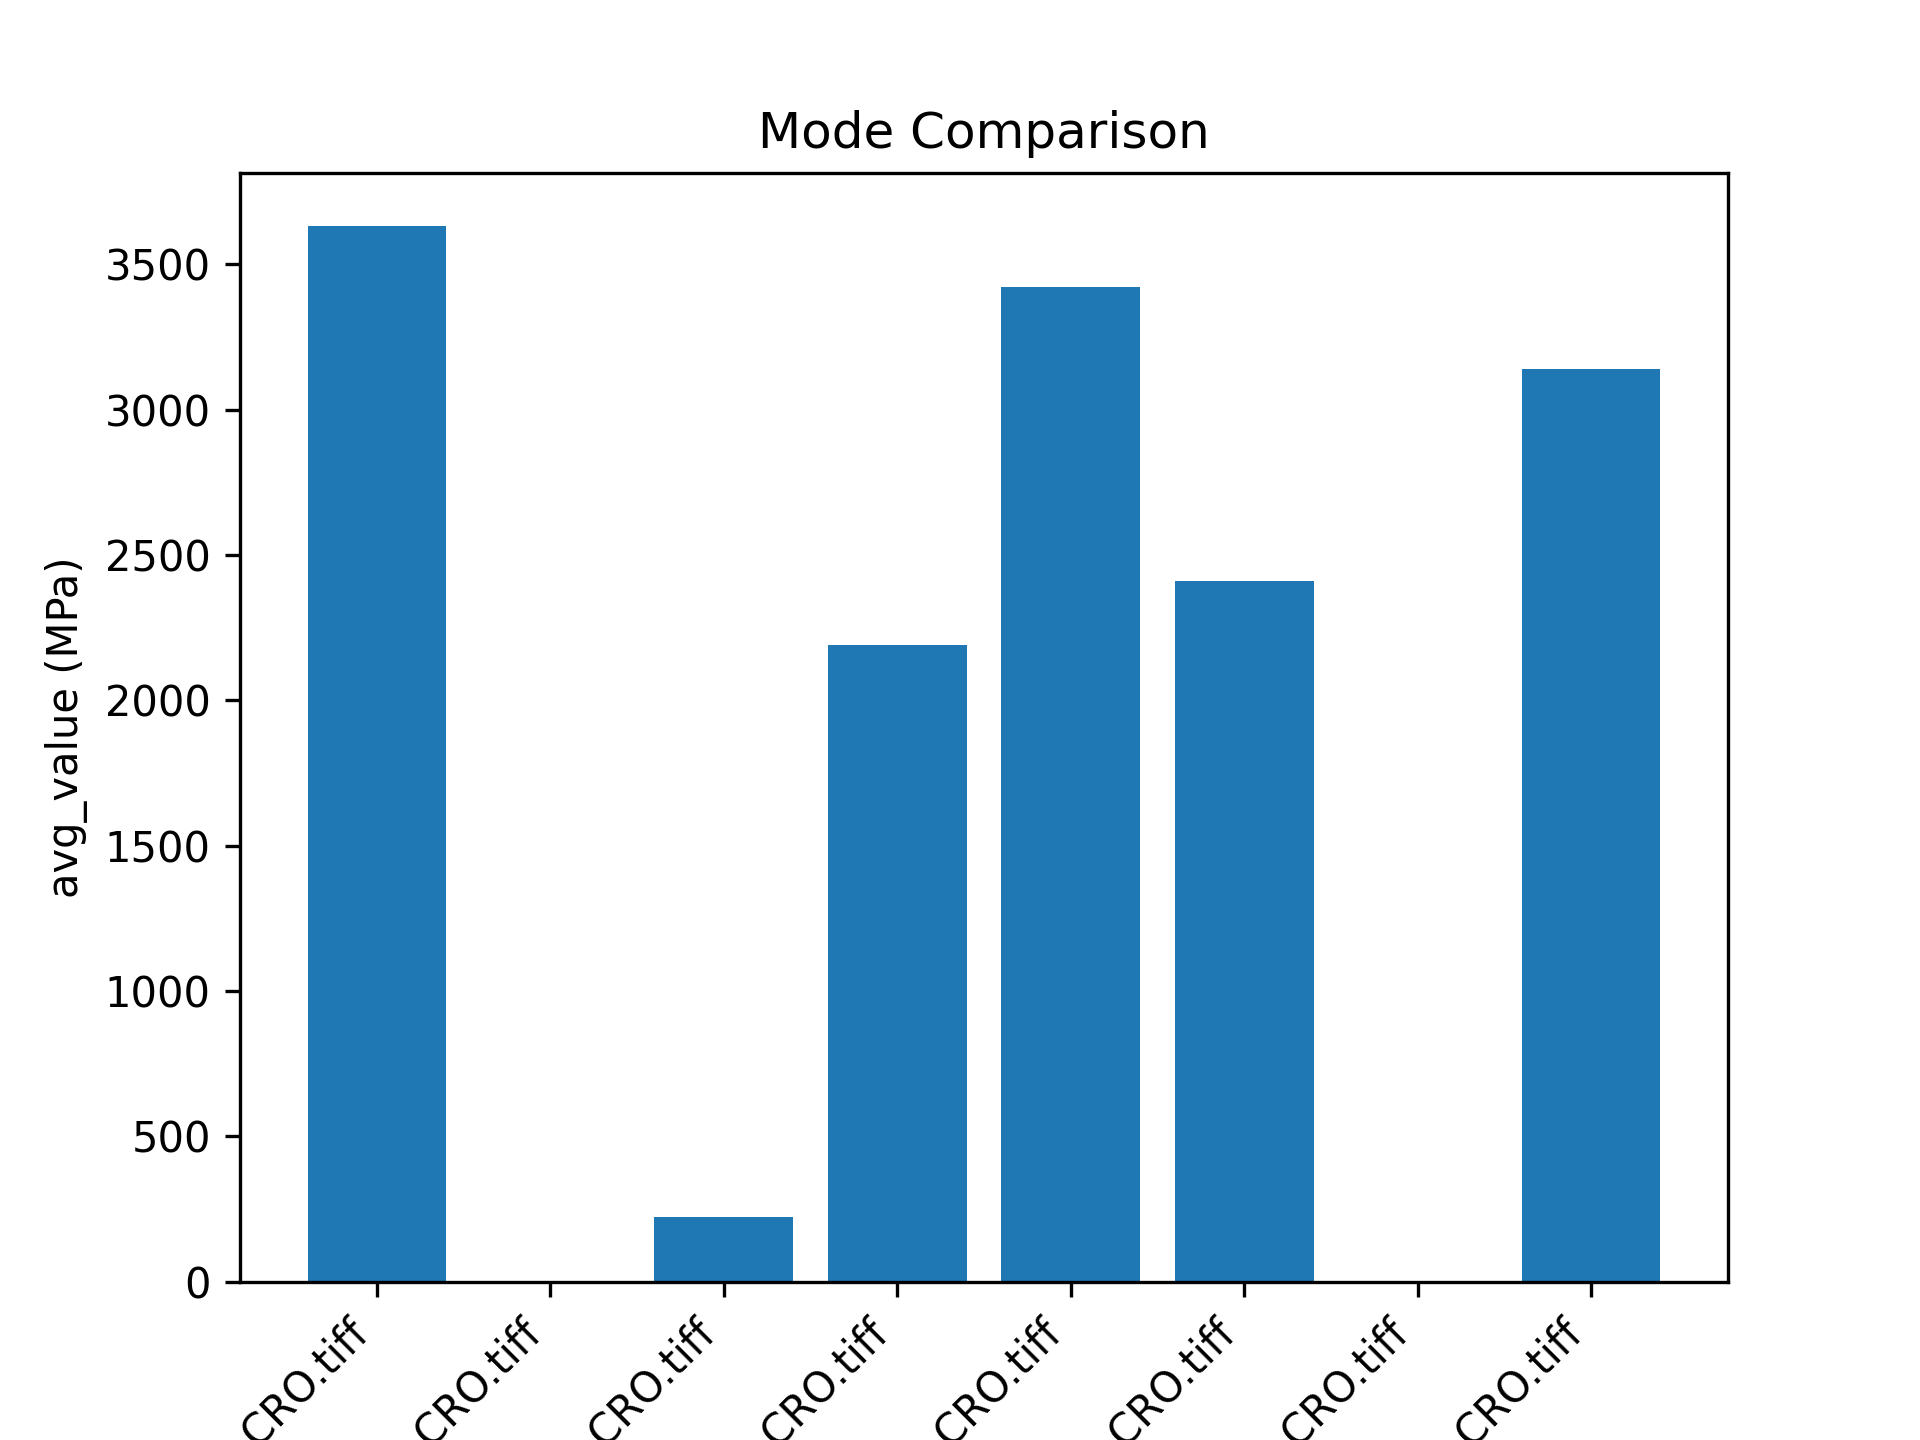
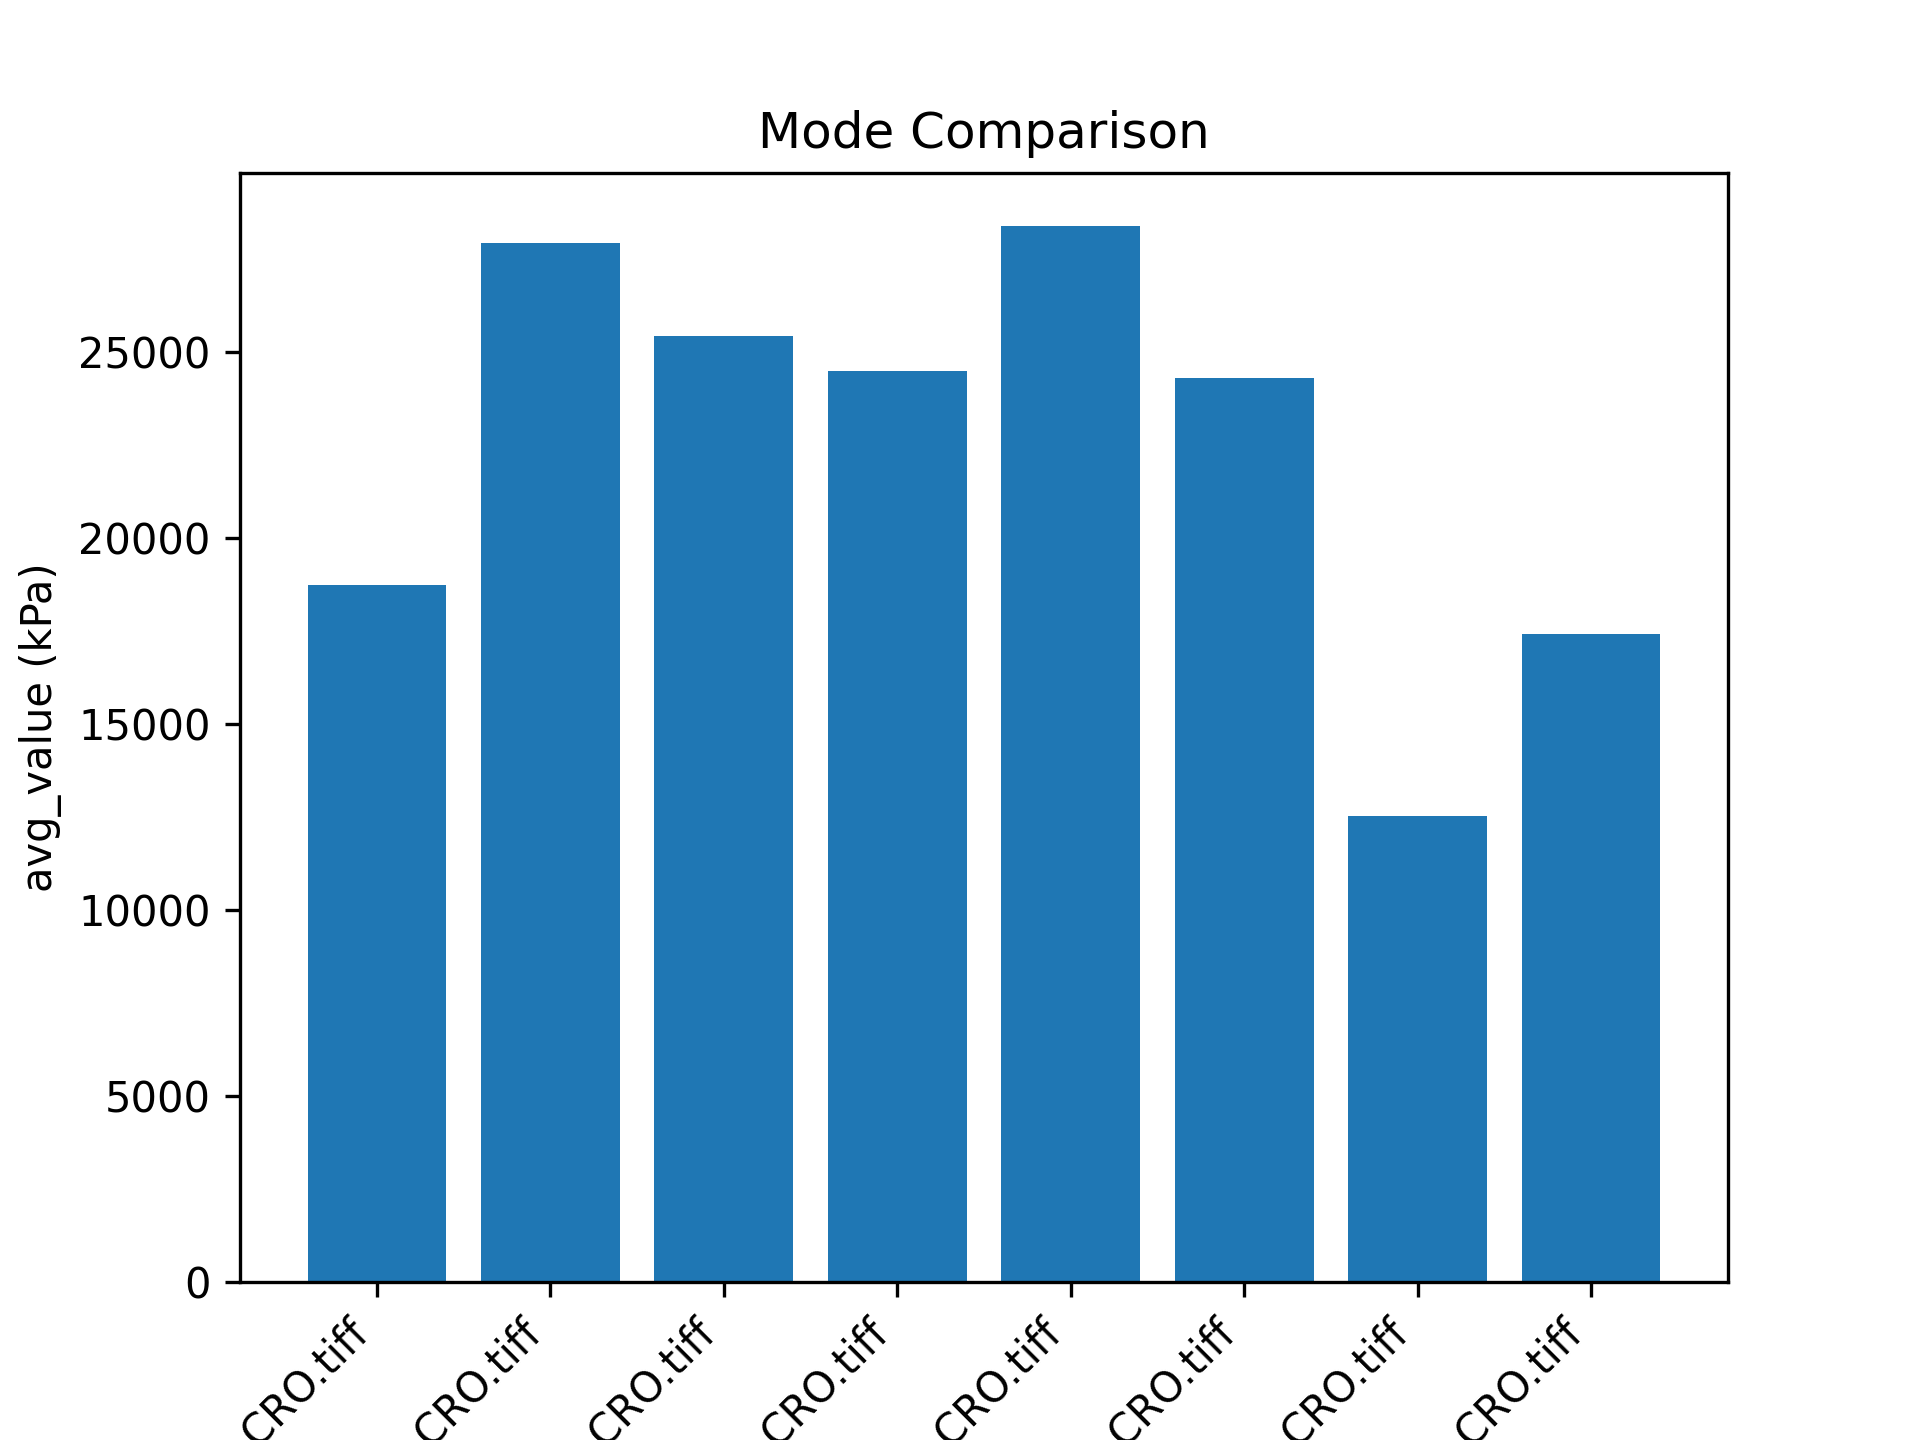
Update modulus filter limits and config suite handling
Reduced max_value for modulus stats_filter from 50000.0 to 5000.0 kPa in all config YAMLs. Improved run_config_suite.py to support per-config profiles via --profiles argument. Updated job manifests, output CSVs, and plots to reflect new filter and unit settings. Enhanced _save_field in run_pygwy_job.py to always attempt Pillow/NumPy fallback after pygwy export.

diff --git a/scripts/run_config_suite.py b/scripts/run_config_suite.py
@@ -78,10 +78,11 @@ def run_cmd(cmd: List[str], dry_run: bool):
 def parse_args():
     ap = argparse.ArgumentParser(description="Run a suite of configs through manifest -> pygwy -> plotting.")
     ap.add_argument("--configs", nargs="+", required=True, help="Config paths or globs, or directories containing *.yaml.")
+    ap.add_argument("--profiles", nargs="*", help="Optional per-config profiles (aligned to --configs list). If omitted, --profile applies to all.")
     ap.add_argument("--input-root", required=True, help="Input TIFF folder.")
     ap.add_argument("--output-root", default="out/suite", help="Root for outputs (per-config subfolders).")
     ap.add_argument("--py2-exe", default="C:\\Python27\\python.exe", help="Python 2.7 executable for pygwy step.")
-    ap.add_argument("--profile", help="Profile name to use from each config.")
+    ap.add_argument("--profile", help="Profile name to use for all configs (ignored when --profiles is given).")
     ap.add_argument("--processing-mode", help="Processing mode (overrides profile).")
     ap.add_argument("--csv-mode", help="CSV mode (overrides profile).")
     ap.add_argument("--plotting-modes", nargs="*", help="Plotting modes to render (overrides profile plotting_modes).")
@@ -95,9 +96,18 @@ def main():
     cfg_paths = collect_configs(args.configs)
     print("Configs to run: %d" % len(cfg_paths))
 
+    profiles_for_configs: List[str] = []
+    if args.profiles:
+        if len(args.profiles) != len(cfg_paths):
+            raise ValueError("If --profiles is provided, it must have the same length as --configs.")
+        profiles_for_configs = args.profiles
+    else:
+        profiles_for_configs = [args.profile] * len(cfg_paths)
+
     for cfg_path in cfg_paths:
         cfg = load_config(cfg_path)
-        pm, cm, plotting = resolve_modes(cfg, args.profile, args.processing_mode, args.csv_mode)
+        profile_for_cfg = profiles_for_configs[cfg_paths.index(cfg_path)]
+        pm, cm, plotting = resolve_modes(cfg, profile_for_cfg, args.processing_mode, args.csv_mode)
         if args.plotting_modes is not None:
             plotting = args.plotting_modes
 

diff --git a/scripts/run_pygwy_job.py b/scripts/run_pygwy_job.py
@@ -207,6 +207,7 @@ def _save_field(path, field):
     if out_dir and not os.path.isdir(out_dir):
         os.makedirs(out_dir)
 
+    saved = False
     # First try pygwy export
     try:
         import gwy  # type: ignore
@@ -227,11 +228,14 @@ def _save_field(path, field):
             except Exception:
                 pass
             gwy.gwy_file_save(container, path)
-            return True
+            saved = True
         except Exception as exc:
             sys.stderr.write("WARN: debug save failed for %s (pygwy): %s\n" % (path, exc))
 
-    # Fallback: save via Pillow/NumPy
+    if saved:
+        return True
+
+    # Fallback: save via Pillow/NumPy regardless of pygwy outcome
     try:
         import numpy as np
         from PIL import Image
